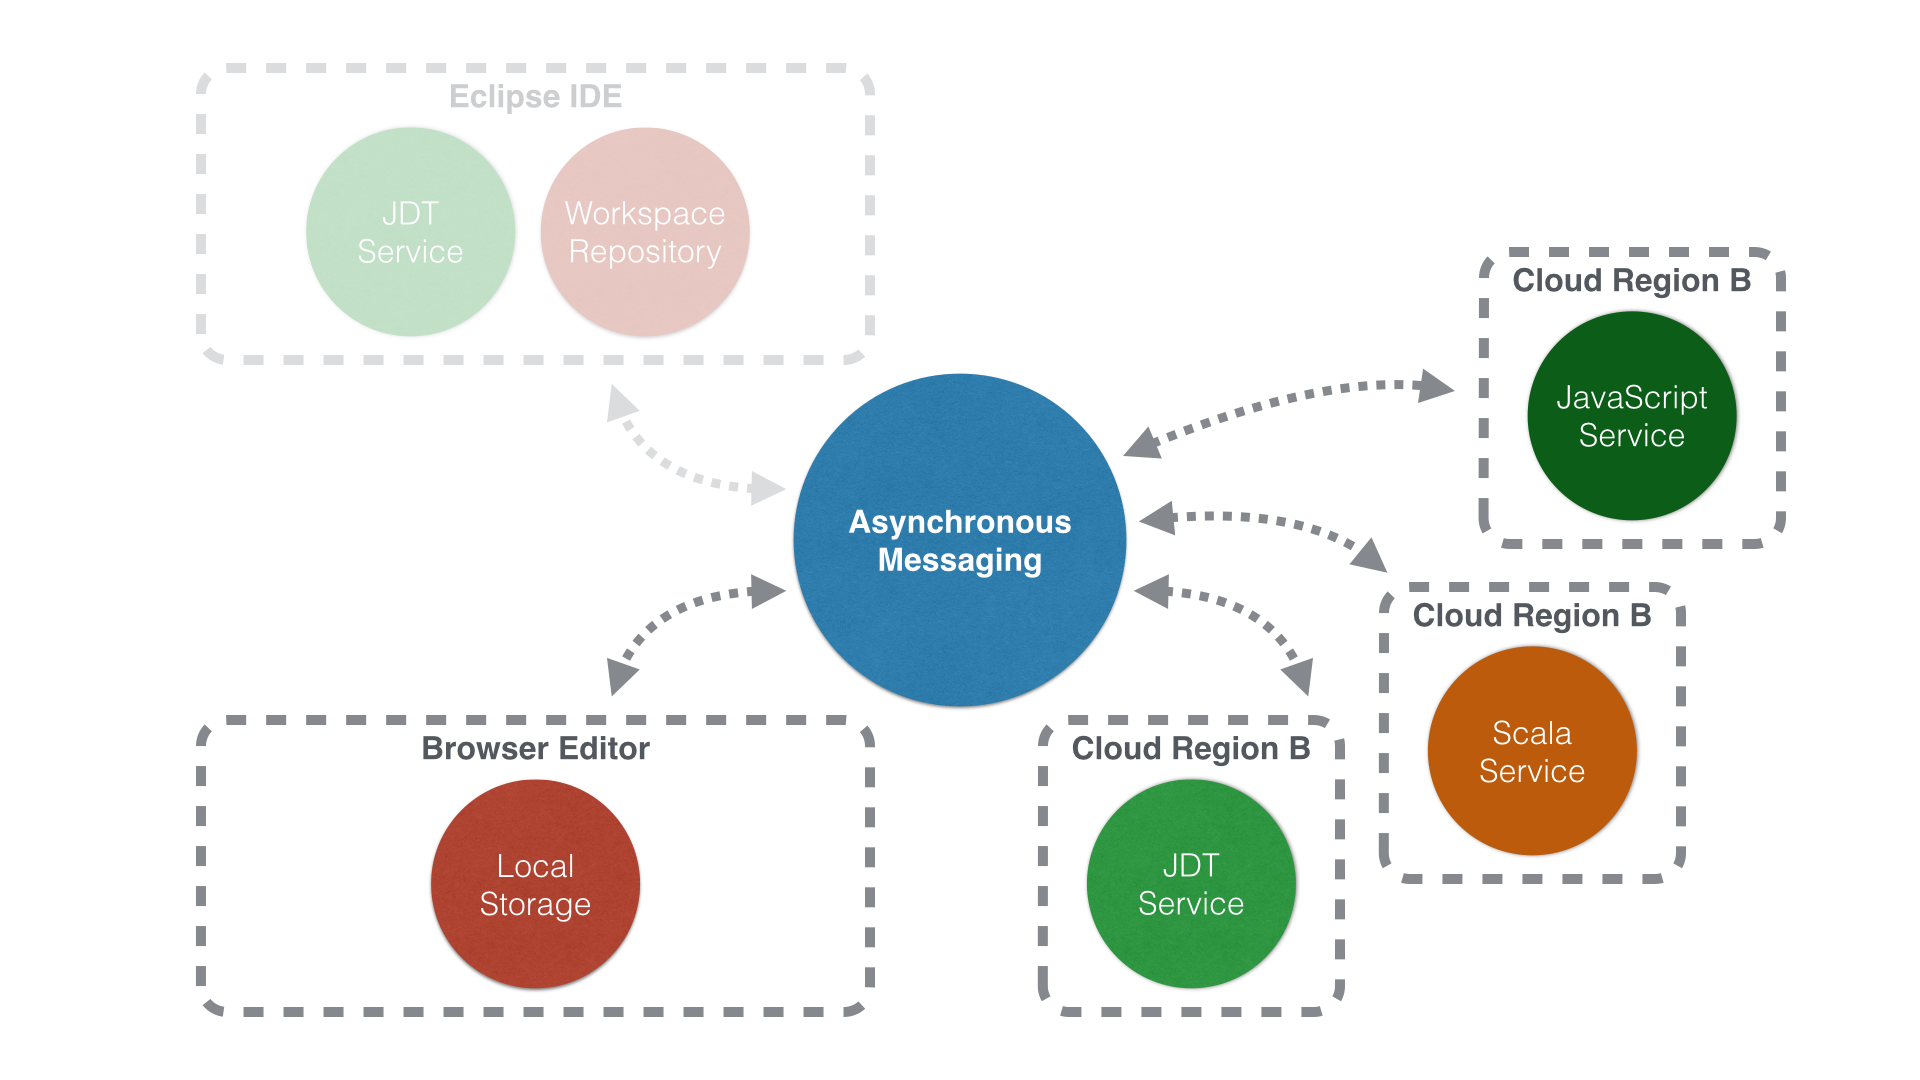
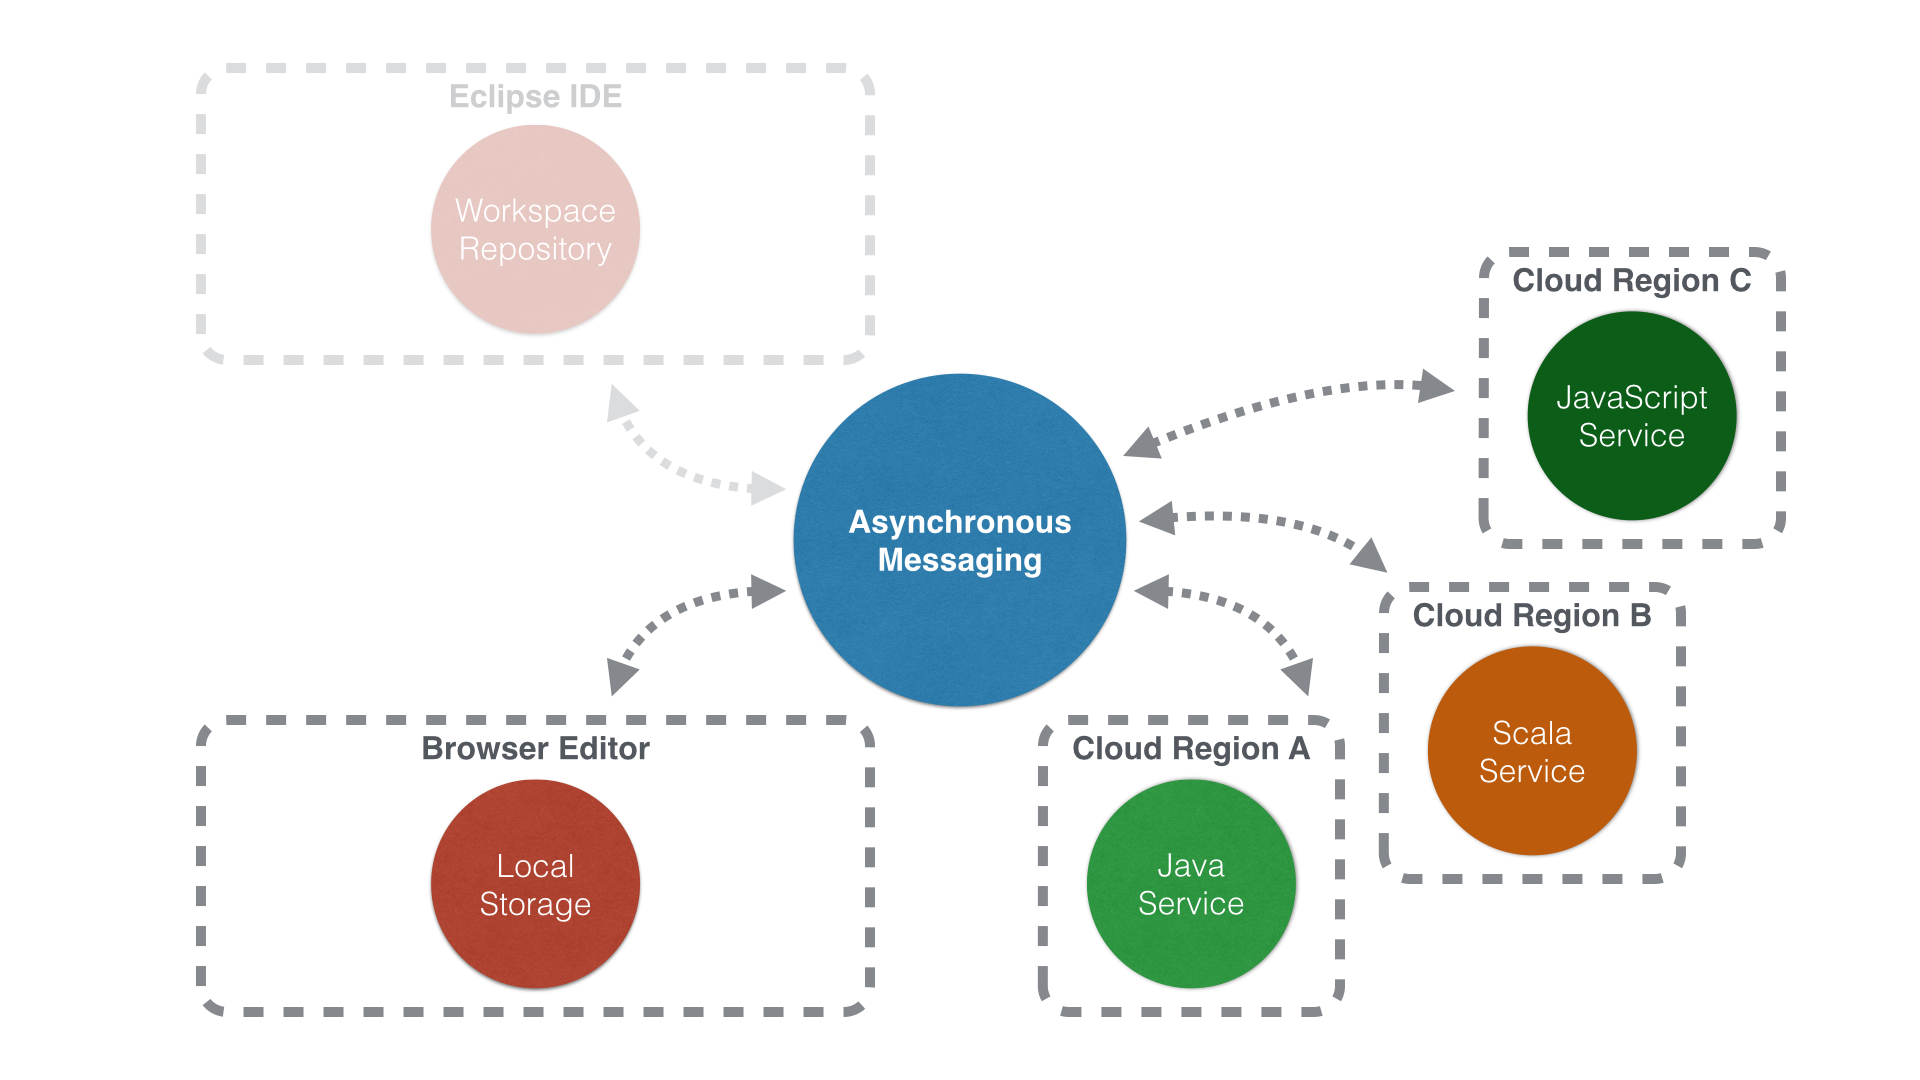
updated various architecture diagrams and removed the slide about a local installation

Changed region(s): [[0.1562, 0.0917, 0.4062, 0.3361], [0.5625, 0.6722, 0.6875, 0.7028], [0.5938, 0.7944, 0.6562, 0.825]]

diff --git a/flux/index.html b/flux/index.html
@@ -152,17 +152,12 @@
 				</section>
 
 				<section>
-					<h2>Local Installation</h2>
-					<img src="images/flux-architecture-local-install.png" alt="Flux Architecture - Local Installation">
-				</section>
-
-				<section>
-					<h2>Local Service - Example</h2>
+					<h2>Local Services Example</h2>
 					<img src="images/flux-architecture-local-executor.png" alt="Flux Architecture - Local Executor Service as an example">
 				</section>
 
 				<section>
-					<h2>All in one</h2>
+					<h2>The Vision</h2>
 					<img src="images/flux-architecture-everything.png" alt="Flux Architecture - All in one">
 				</section>
 
